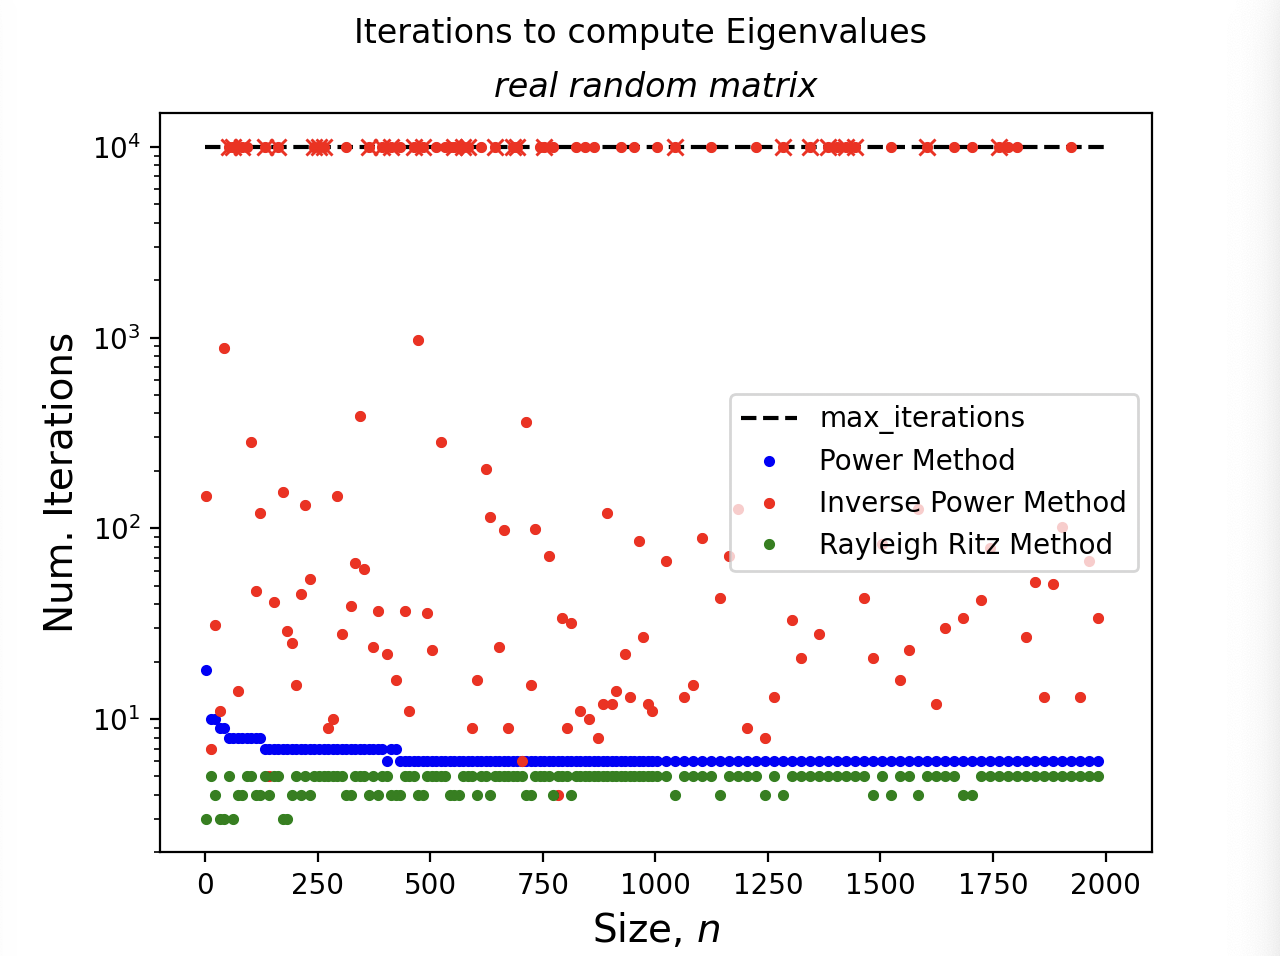
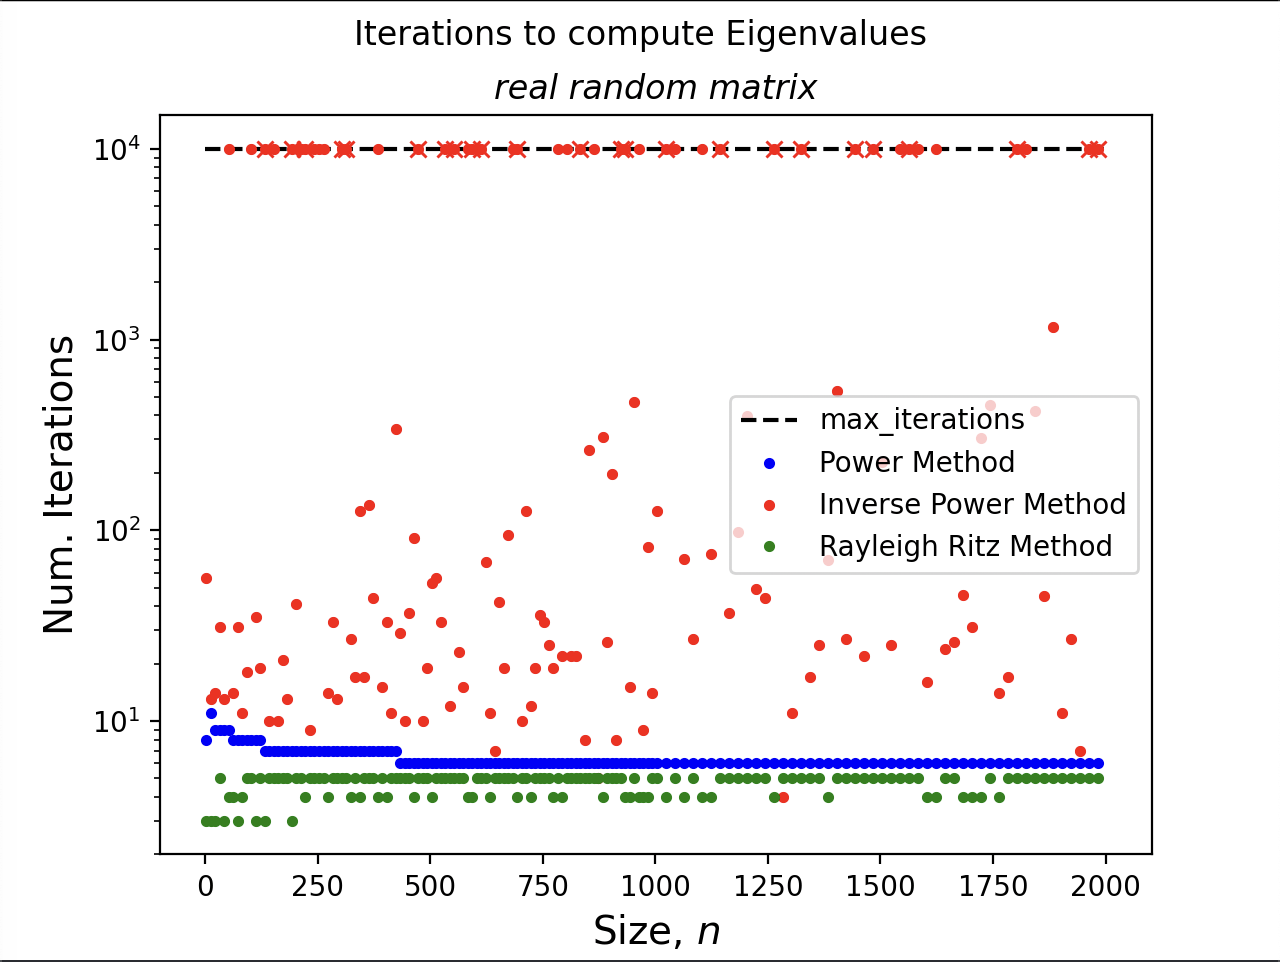
Fixed power_method output

diff --git a/independent_extension/power_method.py b/independent_extension/power_method.py
@@ -31,7 +31,7 @@ def driver():
             it_ray[i],
             time_real[i],
             accurate,
-        ) = testOne(n, sparse=True)
+        ) = testOne(n, diag=True)
 
         if not accurate[0]:
             err_p.append(i)
@@ -57,7 +57,7 @@ def driver():
             it_ray[i + num1],
             time_real[i + num1],
             accurate,
-        ) = testOne(n, sparse=True)
+        ) = testOne(n, diag=True)
 
         if not accurate[0]:
             err_p.append(i + num1)
@@ -92,7 +92,7 @@ def driver():
     plt.semilogy(sizes, time_ray, "g.", label="Rayleigh Ritz Method")
     plt.semilogy(sizes[err_inv], time_inv[err_inv], "rx")
     plt.semilogy(sizes[err_ray], time_ray[err_ray], "gx")
-    plt.semilogy(sizes, time_real, "k.", label="np.eig()")
+    # plt.semilogy(sizes, time_real, "k.", label="np.eig()")
     plt.title("real tridiagonal matrix", style="italic")
     plt.suptitle("Time to compute Eigenvalues")
     plt.xlabel("Size, $n$", fontsize=14)
@@ -103,14 +103,25 @@ def driver():
     return
 
 
-def testOne(n, sym=False, diag=False):
+def testOne(n, sym=False, sparse=False, PD=False, SPD=False, diag=False):
     if sym:
         A = np.random.rand(n, n)
         At = np.transpose(A)
         A = np.matmul(At, A)
+    elif sparse:
+        A = scipy.sparse.random(n, n, 0.5)
+        A = A.A
+    elif PD:
+        A = np.random.random((n, n))
+        A = np.multiply(0.5, np.matmul(A, np.transpose(A)))
+        A = np.add(A, np.multiply(n, np.identity(n)))
+    elif SPD:
+        A = np.random.random((n, n))
+        A = np.multiply(0.5, np.matmul(A, np.transpose(A)))
     elif diag:
         k = 1
         k1 = np.random.random((2 * k + 1, n))
+        # k1 = np.where(k1 == 0, 0.01, k1)
         k2 = np.concatenate([np.arange(0, k + 1, 1), np.arange(-k, 0, 1)])
         sp = scipy.sparse.diags(k1, k2)
         A = sp.toarray()
@@ -223,54 +234,6 @@ def rayleighQuotient(A, tol=1e-10, Nmax=10000):
         e0 = e1
 
     return e1, v1, count
-
-
-def generatePDmatrix(
-    n=3, sparse=False, density=0.1, SPD=False, banded=False, k=0, verbose=False
-):
-    """
-    Method for generating a positive definite matrix. \n
-    Parameters:
-        int n: size of returned matrices,\n
-        bool sparse: if True, generates a sparse PD matrix, \n
-        float density (0,1): density of sparse matrix, defaults to 0.1. 1 is fully populated, \n
-        bool SPD = if True, returns a semi-positive matrix instead of a positive definite,\n
-        bool banded = if True, returns a banded positive matrix instead of a positive definite,\n
-        int k: used in conjuction with 'banded' parameter as width of banded matrix. 0 is just diagonal,\n
-        bool verbose = if True, will print output including matrix, eigenvalues, and rate of convergence\n
-    Returns:
-        np.matrix A: random matrix,\n
-    References:
-        For generating random PD matrices:
-            @Daryl on stack exchange - translated code from matlab
-            link - https://math.stackexchange.com/questions/357980/how-to-generate-random-symmetric-positive-definite-matrices-using-matlab
-    """
-
-    # generate a positive definite matrix
-    if not sparse:
-        # normal random
-        A = np.random.random((n, n))
-        A = np.multiply(0.5, np.matmul(A, np.transpose(A)))
-        if not SPD:
-            # make matrix positive definite
-            A = np.add(A, np.multiply(n, np.identity(n)))
-    elif banded:
-        # random banded positive definite matrix creation
-        k = k + 1
-        k1 = np.random.random((k, n))
-        k2 = np.arange(0, k, 1)
-        sp = scipy.sparse.diags(k1, k2)
-        A = sp.toarray()
-        A = A + np.transpose(A) - np.diag(np.diag(A))
-        A = np.add(A, np.multiply(len(A), np.identity(len(A))))
-    else:
-        # random sparse positive definite matrix creation
-        A = scipy.sparse.random(n, n, density)
-        A = np.triu(A.A)
-        A = A + np.transpose(A) - np.diag(np.diag(A))
-        A = np.add(A, np.multiply(n, np.identity(n)))
-
-    return A
 
 
 if __name__ == "__main__":
